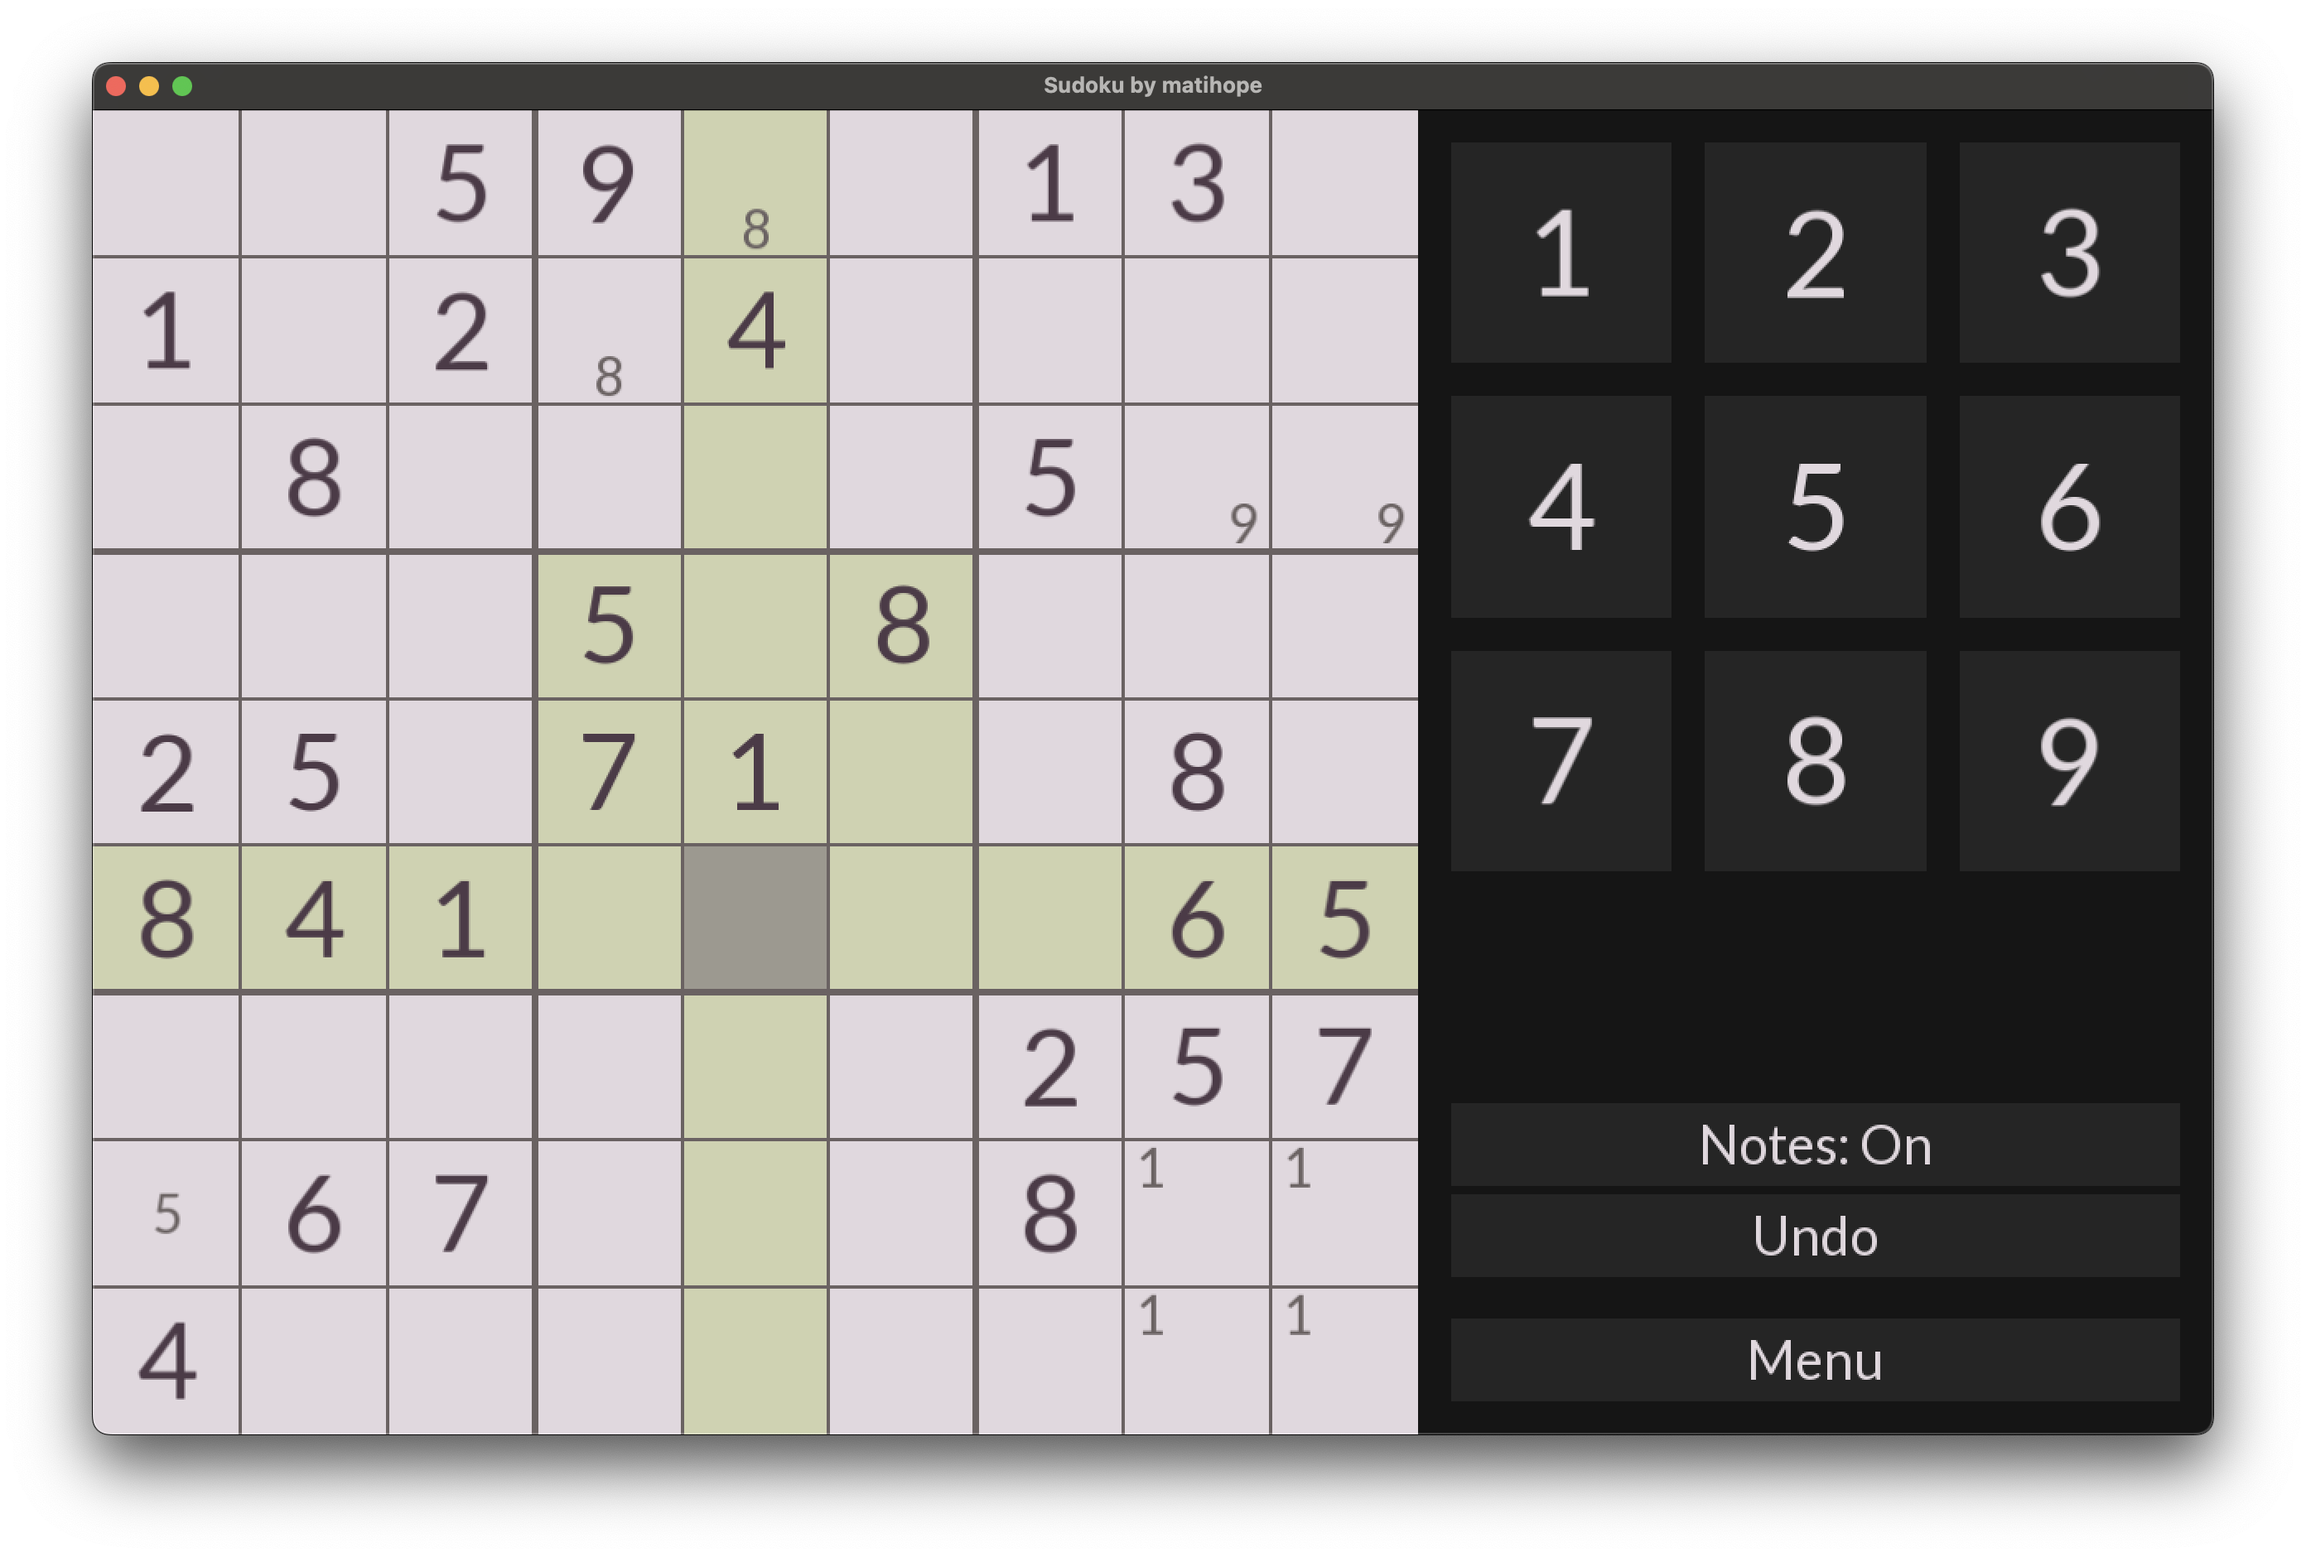
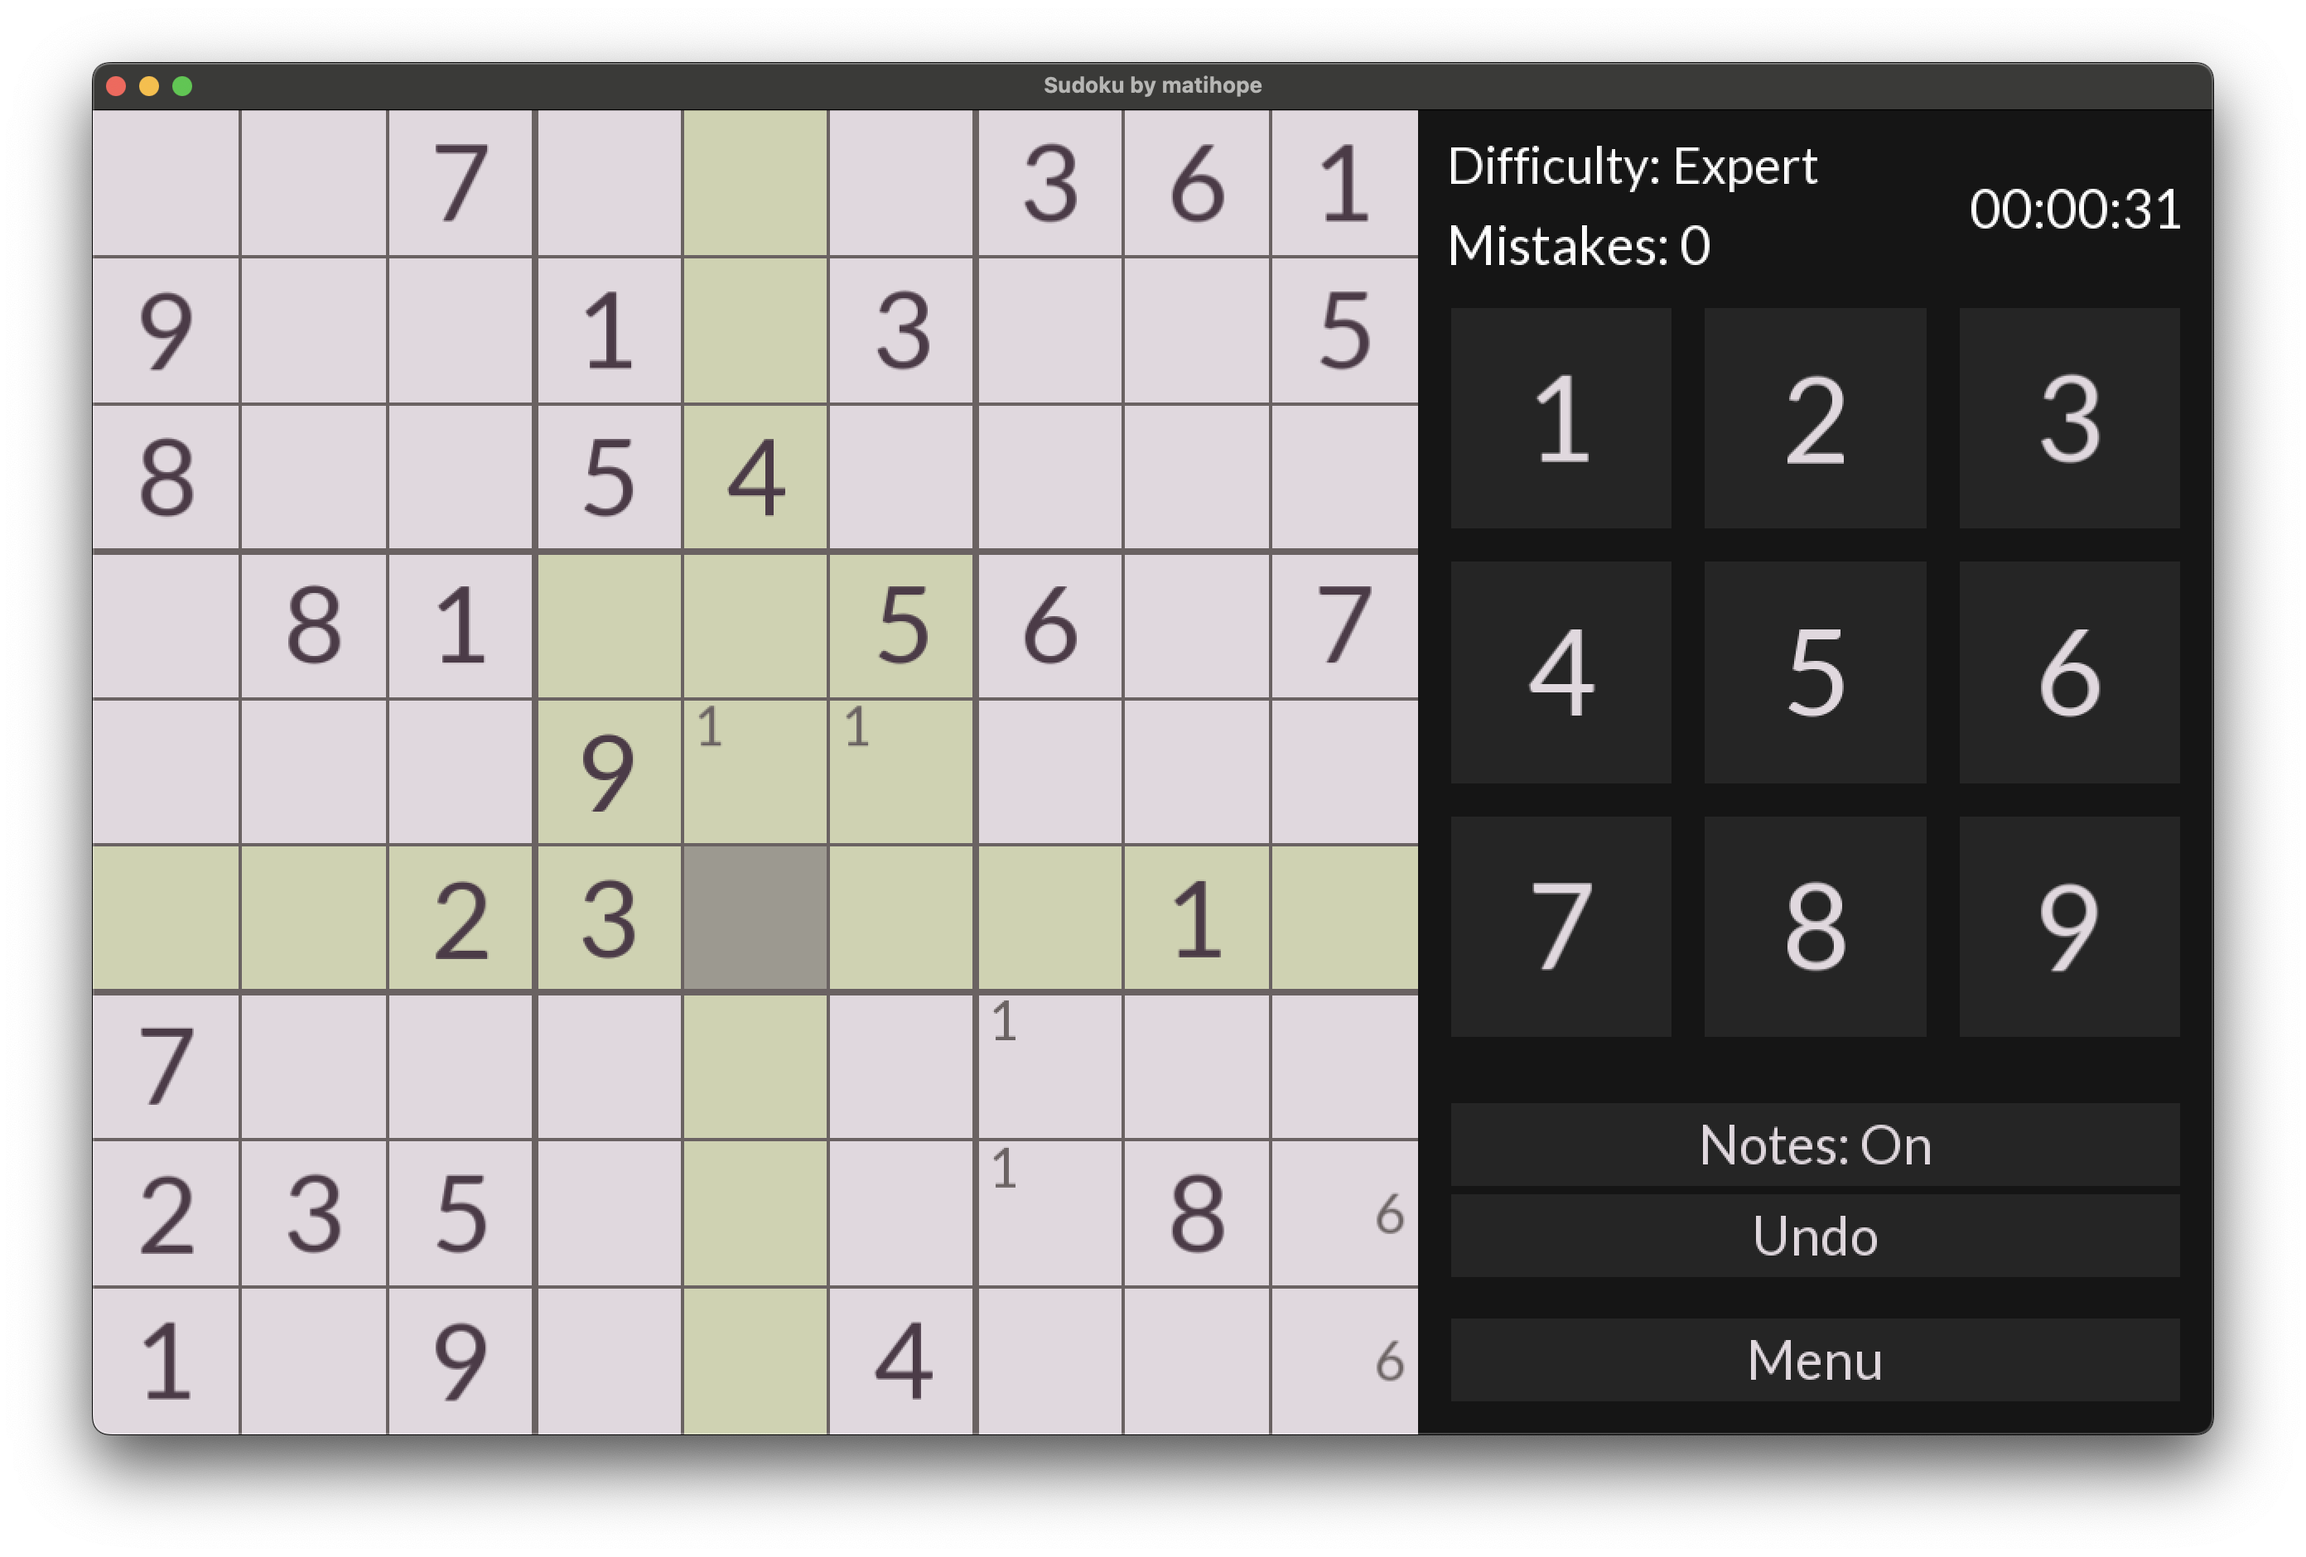
Add mistake counter

diff --git a/src/entities/SudokuSceneEntity.cpp b/src/entities/SudokuSceneEntity.cpp
@@ -2,6 +2,7 @@
 #include "GUI/Button.hpp"
 #include "GUI/Label.hpp"
 #include "GUI/Timer.hpp"
+#include "Math/Vector2.hpp"
 #include "SFML/Window/Keyboard.hpp"
 #include "SudokuGame.hpp"
 #include "Utils/Converters.hpp"
@@ -14,7 +15,7 @@ SudokuScene::SudokuScene(sudoku::SudokuGame::Difficulty difficulty):
 void SudokuScene::onReady(mk::Game& game) {
 	board = addChild<SudokuBoardEntity>(game);
 	board->load(sudoku.getBoard());
-	spawnButtons(game);
+	spawnButtonsAndLabels(game);
 }
 
 void SudokuScene::handleEvent(mk::Game& game, const sf::Event& event) {
@@ -33,7 +34,7 @@ void SudokuScene::handleEvent(mk::Game& game, const sf::Event& event) {
 	if (event.type == sf::Event::KeyPressed && event.key.code == sf::Keyboard::U) undo();
 }
 
-void SudokuScene::spawnButtons(mk::Game& game) {
+void SudokuScene::spawnButtonsAndLabels(mk::Game& game) {
 	float padding = 20.f;
 
 	// Button colors
@@ -98,22 +99,32 @@ void SudokuScene::spawnButtons(mk::Game& game) {
 	note_button->setFontColors(font_color);
 
 	// Difficulty label
-	auto diff_label = addChild<mk::gui::Label>(
-		game, game.getDefaultFont(), "Difficulty: " + sudoku::difficultyToString(difficulty)
+	auto diff_and_mistakes_center = top_left - mk::math::Vector2f(0.f, 40.f + padding);
+	auto diff_diff                = 10.0;
+	auto diff_label               = addChild<mk::gui::Label>(
+        game, game.getDefaultFont(), "Difficulty: " + sudoku::difficultyToString(difficulty)
+    );
+	diff_label->setPosition(
+		(diff_and_mistakes_center - mk::math::Vector2f(0.f, diff_diff)).as<sf::Vector2f>()
 	);
-	diff_label->setPosition((top_left - mk::math::Vector2f(0.f, 40.f + padding)).as<sf::Vector2f>()
-	);
-	diff_label->setAlignment(mk::gui::HAlignment::LEFT, mk::gui::VAlignment::CENTER);
+	diff_label->setAlignment(mk::gui::HAlignment::LEFT, mk::gui::VAlignment::BOTTOM);
 	diff_label->setTextSize(30);
 
 	// Timer label
 	timer = addChild<mk::gui::Timer>(
 		game, std::move(mk::gui::Timer::Increasing(game.getDefaultFont()))
 	);
-	timer->setPosition(diff_label->getPosition());
+	timer->setPosition(diff_and_mistakes_center.as<sf::Vector2f>());
 	timer->setAlignment(mk::gui::HAlignment::RIGHT, mk::gui::VAlignment::CENTER);
 	timer->move(menu_button_width, 0.0);
 	timer->enableHours(true);
+
+	// Mistake label
+	mistake_label = addChild<mk::gui::Label>(game, game.getDefaultFont(), "Mistakes: 0");
+	mistake_label->setAlignment(mk::gui::HAlignment::LEFT, mk::gui::VAlignment::TOP);
+	mistake_label->setPosition(
+		(diff_and_mistakes_center + mk::math::Vector2f(0.f, diff_diff)).as<sf::Vector2f>()
+	);
 }
 
 void SudokuScene::onUpdate(mk::Game& game, float dt) {
@@ -141,8 +152,12 @@ void SudokuScene::handlePutDigit(sudoku::SudokuValue digit) {
 		auto [col, row] = *tile;
 		if (taking_notes)
 			sudoku.toggleNote(col, row, digit);
-		else
-			sudoku.tryPlay(col, row, digit);
+		else if (!sudoku.tryPlay(col, row, digit)) {
+			mistake_counter++;
+			mistake_label->setText(std::string("Mistakes: ") + std::to_string(mistake_counter));
+		}
+
+
 		board->load(sudoku.getBoard());
 	}
 }

diff --git a/src/entities/SudokuSceneEntity.hpp b/src/entities/SudokuSceneEntity.hpp
@@ -16,7 +16,7 @@ public:
 	void onUpdate(mk::Game& game, float dt) override;
 
 private:
-	void spawnButtons(mk::Game& game);
+	void spawnButtonsAndLabels(mk::Game& game);
 
 	void handlePutDigit(sudoku::SudokuValue digit);
 
@@ -34,4 +34,7 @@ private:
 	std::array<mk::gui::Button*, 10> number_buttons{};
 
 	mk::gui::Timer* timer = nullptr;
+
+	uint64_t        mistake_counter = 0;
+	mk::gui::Label* mistake_label   = nullptr;
 };

diff --git a/src/main.cpp b/src/main.cpp
@@ -1,7 +1,6 @@
 #include "GUI/Button.hpp"
 #include "SudokuGame.hpp"
 #include "entities/SudokuSceneEntity.hpp"
-#include <iostream>
 #include <memory>
 
 class Menu: public mk::WorldEntity {

diff --git a/Engine/WorldEntity/WorldEntity.hpp b/Engine/WorldEntity/WorldEntity.hpp
@@ -1,5 +1,4 @@
 #pragma once
-#include "ResPath/ResPath.hpp"
 #include <CollisionComponent/CollisionComponent.hpp>
 #include <SFML/Graphics.hpp>
 #include <Updatable/Updatable.hpp>

diff --git a/Engine/WorldEntity/BoxyWorldEntity.hpp b/Engine/WorldEntity/BoxyWorldEntity.hpp
@@ -4,7 +4,6 @@
 
 #pragma once
 
-#include "Math/Math.hpp"
 #include "WorldEntity.hpp"
 
 namespace mk {
